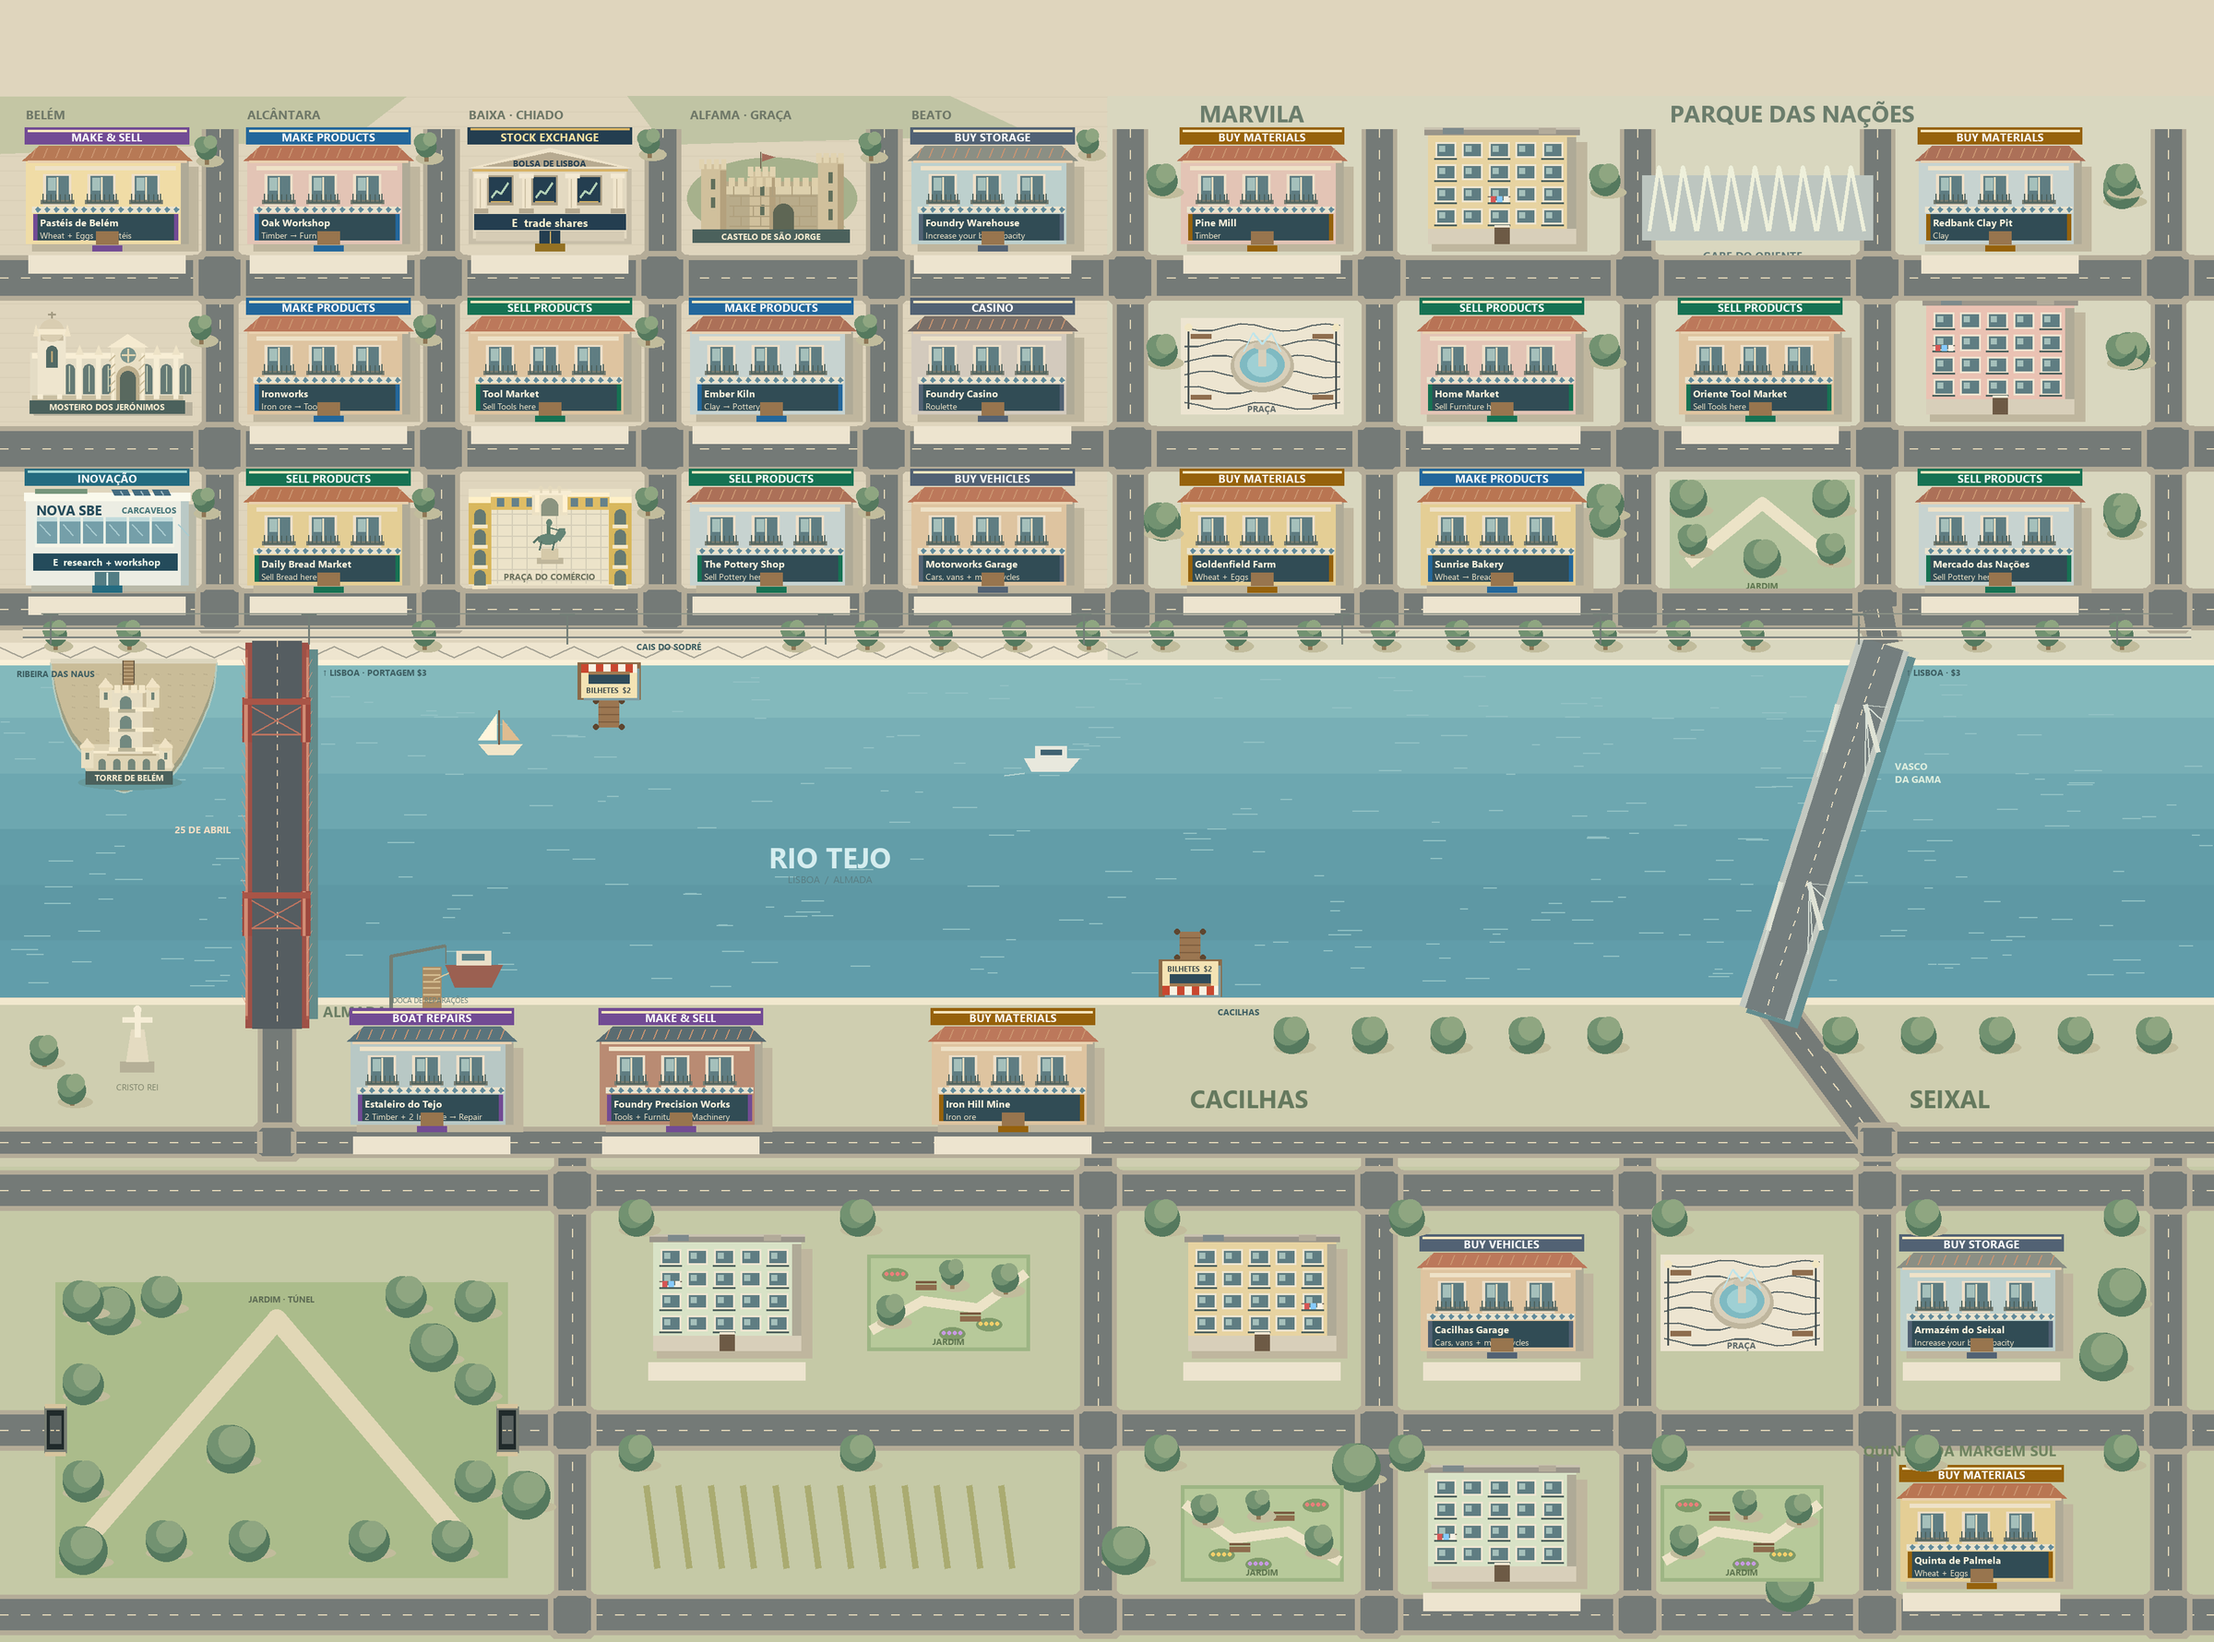
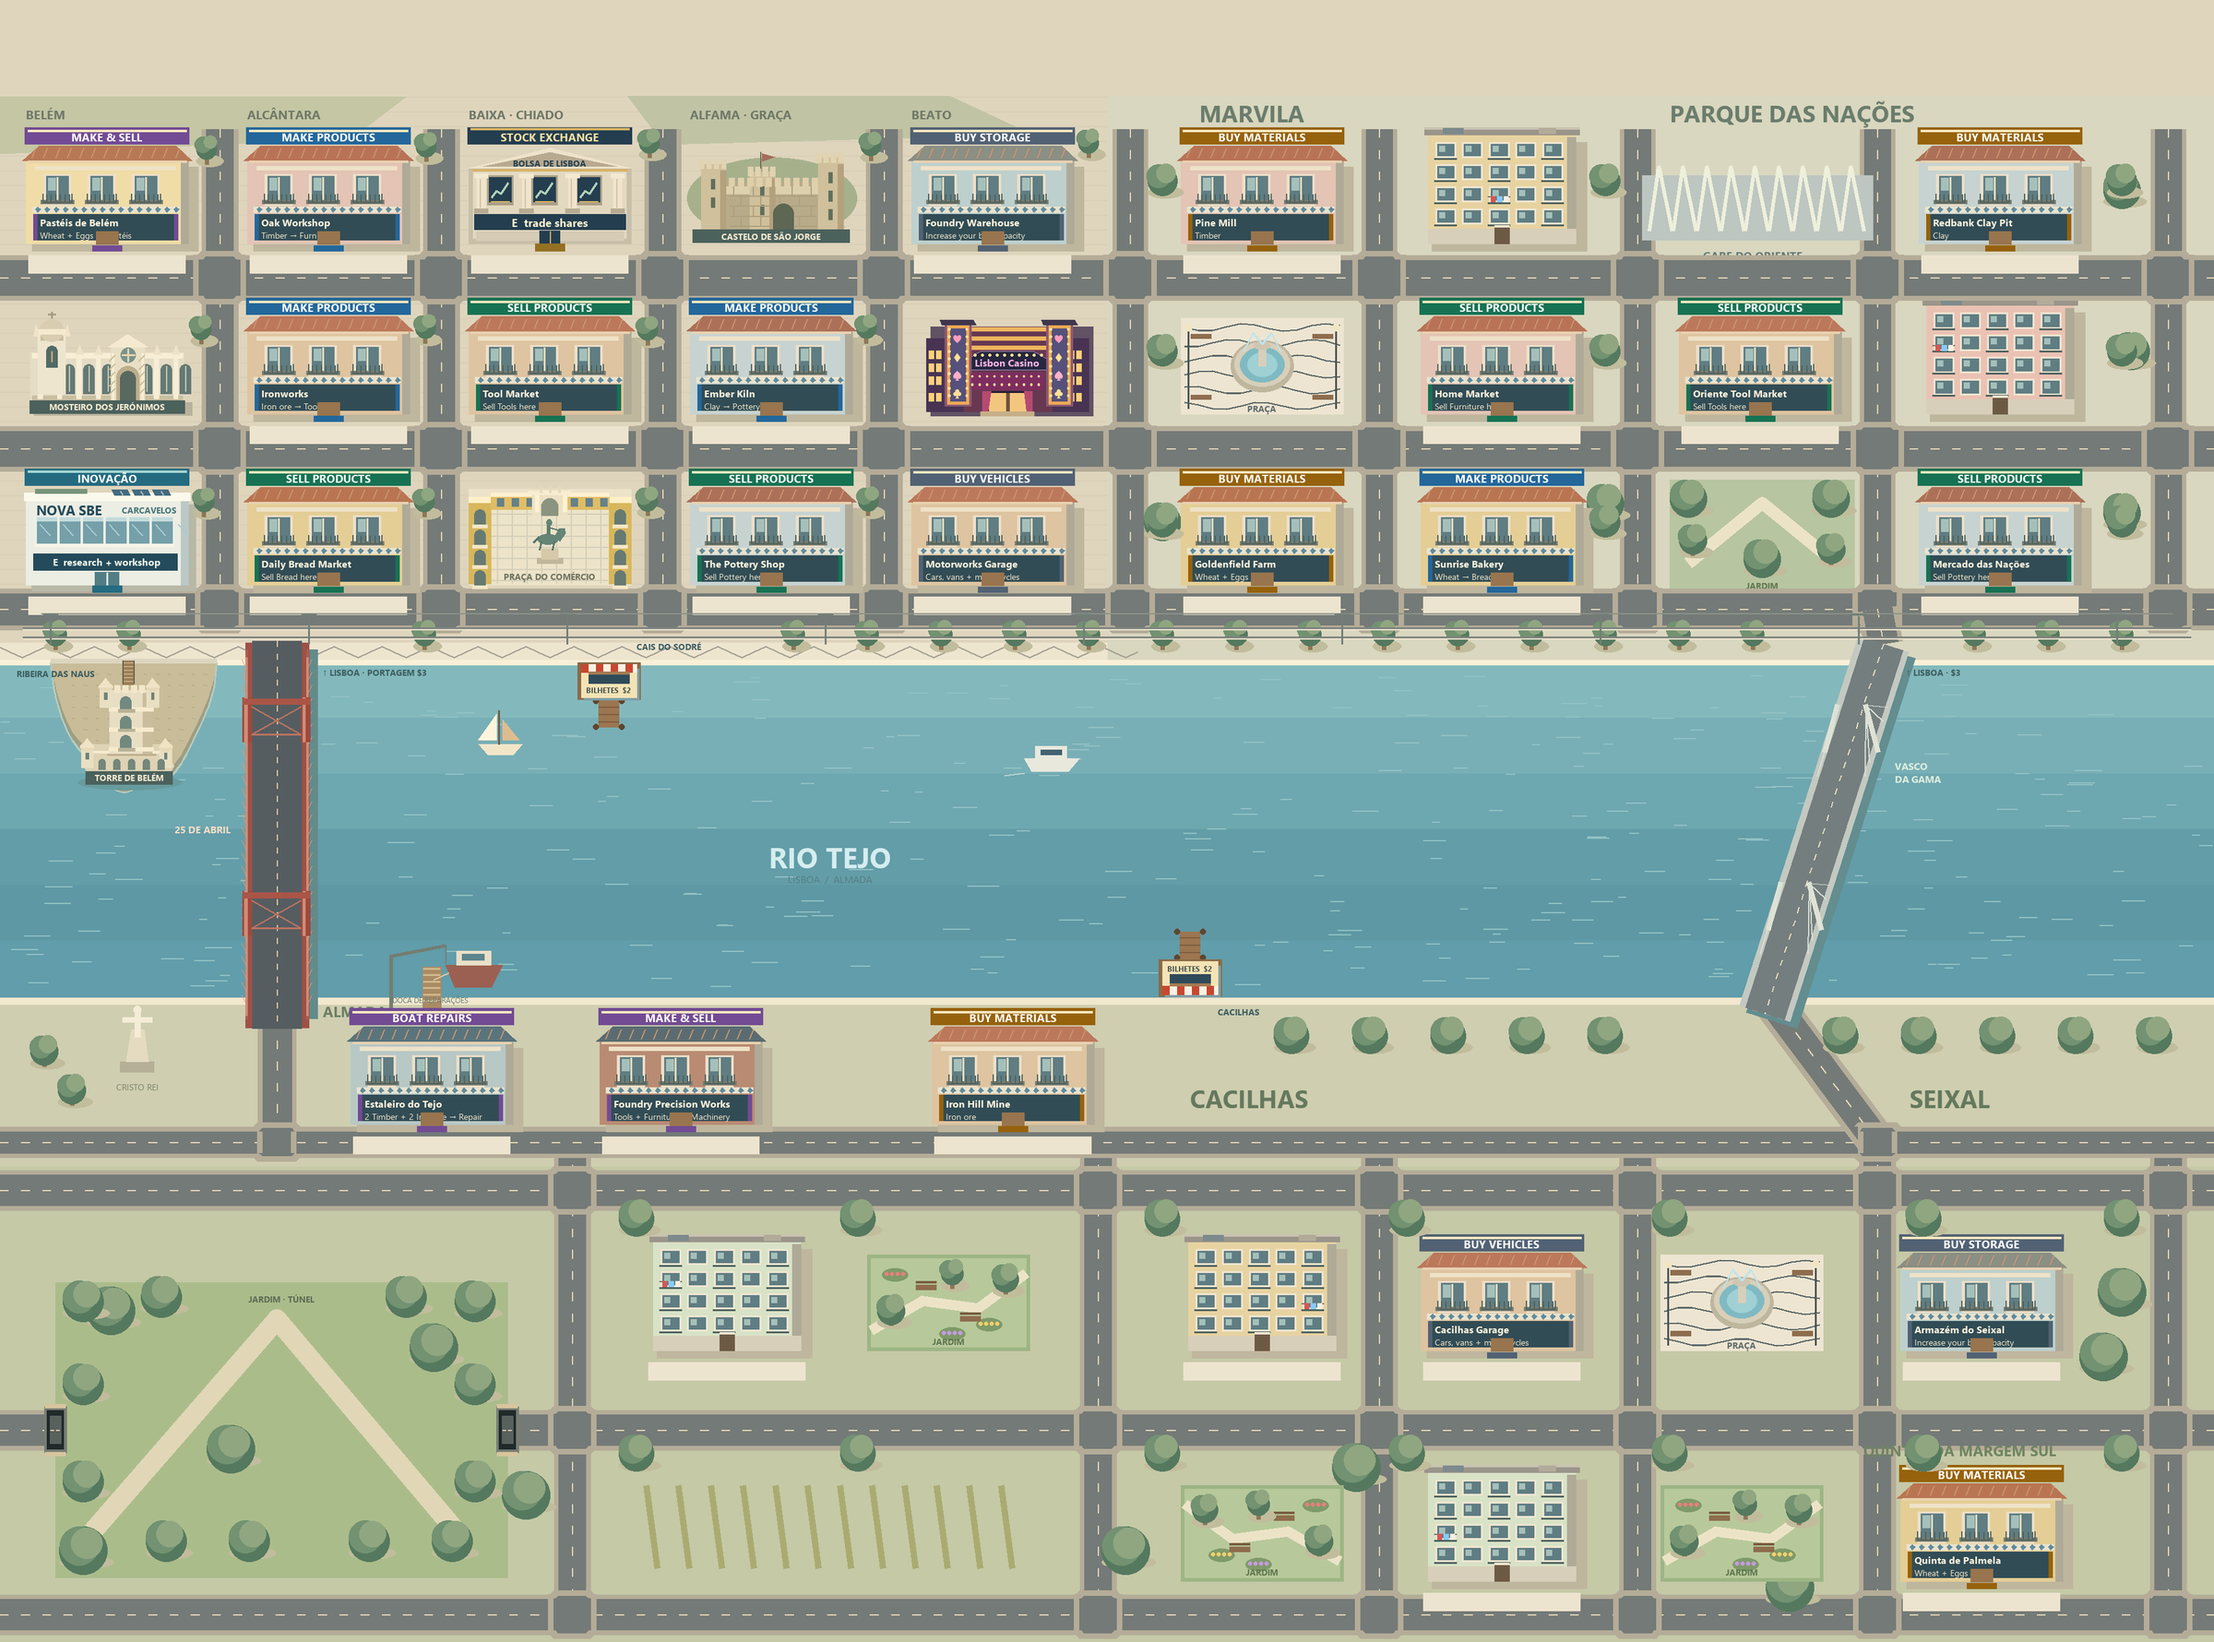
Redesign and center Lisbon Casino with blinking marquee lights

Changed region(s): [[0.4062, 0.1545, 0.5, 0.2781]]

diff --git a/casino_art.py b/casino_art.py
@@ -1,0 +1,71 @@
+"""Neon casino facade and shared positions for animated marquee bulbs."""
+
+
+def bulb_positions(site):
+    x, y = site.x, site.y
+    for side in (25, 135):
+        for height in range(15, 94, 8):
+            for edge in (0, 19):
+                yield x+side+edge, y+height
+    for row in (66, 75):
+        for offset in range(50, 130, 8):
+            yield x+offset, y+row
+    for offset in range(53, 127, 8):
+        yield x+offset, y+43
+
+
+def draw_casino(scene, site):
+    x, y, right, bottom = site.bounds
+    p = scene
+    p.poly((x+5,y+12,right+5,y+12,right+5,bottom+5,x+5,bottom+5), "#615264")
+    p.rect(x,y+25,right,bottom,"#493353")
+    for left in (x+3,right-21):
+        for height in (38,52,66,84):
+            for offset in (0,8):
+                p.rect(left+offset,y+height,left+offset+5,y+height+9,"#ffd17a")
+    p.rect(x+41,y+12,right-40,bottom,"#683851")
+    for height in (13,23,33):
+        p.rect(x+39,y+height,right-39,y+height+4,"#edb55d")
+    p.poly((x+42,y+59,x+43,y+48,x+59,y+39,x+116,y+39,x+133,y+48,x+134,y+59),
+           "#26263f", outline="#a08bc3")
+    p.text(x+88,y+51,"Lisbon Casino",8,"#ffb8e4",True,"center")
+    for left in (x+23,x+133):
+        p.rect(left-3,y+8,left+26,y+98,"#8c5974")
+        p.rect(left,y+11,left+23,y+96,"#edaa55")
+        p.rect(left+3,y+14,left+20,y+93,"#56517b")
+        for symbol,height,color in (("♥",25,"#ff9dbe"),("♦",45,"#ffe095"),
+                                    ("♠",65,"#ffb0c5"),("♣",84,"#ffe095")):
+            p.text(left+11,y+height,symbol,11,color,True,"center")
+        p.poly((left-8,y+5,left+28,y+5,left+31,y+10,left-6,y+10),"#40374e")
+    p.rect(x+49,y+62,right-49,y+80,"#7f2d60")
+    p.rect(x+61,y+82,right-61,bottom,"#261b36")
+    p.rect(x+68,y+84,right-68,bottom,"#f3c67f")
+    p.rect(x+87,y+84,x+90,bottom,"#725135")
+    p.poly((x+61,y+82,x+70,y+82,x+67,bottom,x+61,bottom),"#b54a71")
+    p.poly((right-61,y+82,right-70,y+82,right-67,bottom,right-61,bottom),"#b54a71")
+    p.rect(x+59,bottom,right-59,bottom+5,"#c6af88")
+    for bx,by in bulb_positions(site):
+        p.c.create_oval(bx-1.2,by-1.2,bx+1.2,by+1.2,fill="#ffdf93",width=0,tags="city")
+
+
+class CasinoLights:
+    def __init__(self, canvas, sites, zoom):
+        self.canvas = canvas
+        self.frame = None
+        self.items = []
+        for site in sites:
+            if site.role == "CASINO":
+                for x,y in bulb_positions(site):
+                    item = canvas.create_oval((x-1.3)*zoom,(y-1.3)*zoom,
+                                              (x+1.3)*zoom,(y+1.3)*zoom,
+                                              fill="#ffdf93",width=0,tags="casino-lights")
+                    self.items.append(item)
+
+    def update(self, elapsed):
+        frame = int(elapsed*5)
+        if frame == self.frame:
+            return
+        self.frame = frame
+        for index,item in enumerate(self.items):
+            color = ("#fff0b5","#ff89d0","#8c6b99")[(index+frame)%3]
+            self.canvas.itemconfigure(item,fill=color)

diff --git a/living_world.py b/living_world.py
@@ -155,6 +155,8 @@ class LivingWorld:
         proxy = SimpleNamespace(canvas=c, scale_x=self.zoom, display_scale=self.zoom, label=self.label)
         self.scene = LisbonScene(proxy, self.sites, draw=False)
         self.scene.create_tram()
+        from casino_art import CasinoLights
+        self.casino_lights = CasinoLights(c, self.sites, self.zoom)
         c.scale("tram", 0, 0, self.zoom, self.zoom)
         self.actors = []
         self.light_items = []
@@ -403,6 +405,7 @@ class LivingWorld:
                     self.labels[site.name] = (item_id, text, color, visible)
 
     def render(self, body_colors, hair_colors, costumes):
+        self.casino_lights.update(self.game.town.elapsed)
         now = time.perf_counter()
         dt, self.last_time = min(.15, now-self.last_time), now
         self.fps_frames += 1

diff --git a/tycoon.py b/tycoon.py
@@ -308,7 +308,7 @@ SITES = (
     Site("Sunrise Bakery", "FACTORY", 3, 1540, 530, "#ebbe83"),
     Site("Daily Bread Market", "PUBLIC SHOP", 3, 268, 530, "#f3ca85"),
     # The casino has no trade route, so its trade index is unused.
-    Site("Foundry Casino", "CASINO", -1, 988, 345, "#e8455a"),
+    Site("Foundry Casino", "CASINO", -1, 1004, 342, "#e8455a"),
     Site("Motorworks Garage", "GARAGE", -1, 988, 530, "#86caff"),
     Site("Foundry Warehouse", "WAREHOUSE", -1, 988, 160, "#d2a7e5"),
     Site("Pastéis de Belém", "PASTELARIA", -1, 28, 160, "#f1d69b"),

diff --git a/lisbon_scene.py b/lisbon_scene.py
@@ -715,6 +715,10 @@ class LisbonScene:
         glow(door_x, door_y+7, 22, "#c6e4da")
 
     def building(self, site):
+        if site.role == "CASINO":
+            from casino_art import draw_casino
+            draw_casino(self, site)
+            return
         from wayfinding import site_guide
         guide = site_guide(site)
         if site.role == "EXCHANGE":
